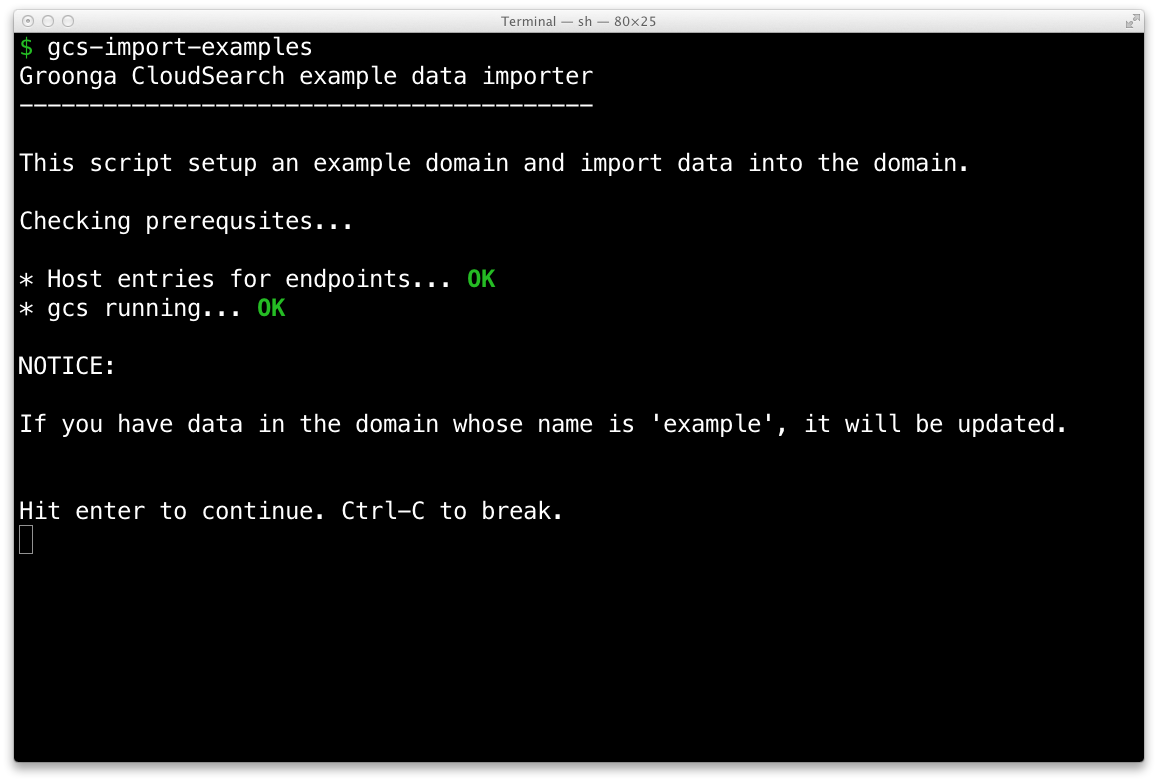
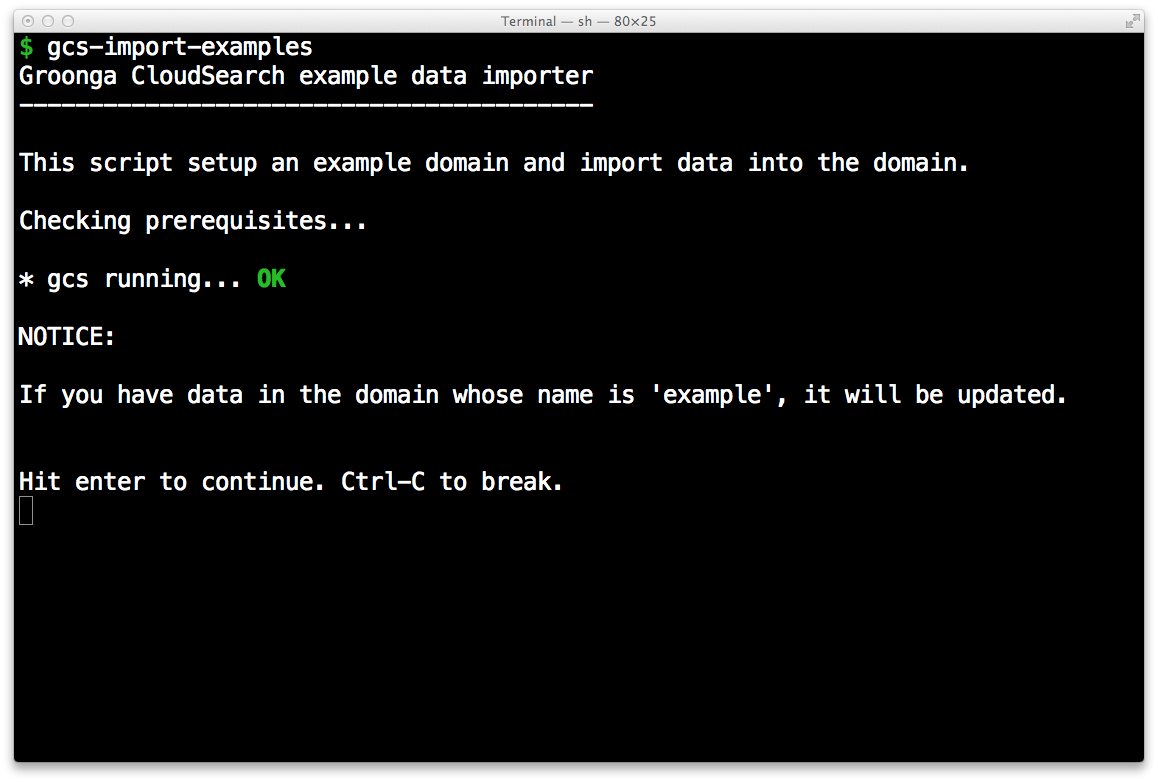
Use xip.io instead of creating /etc/hosts entry. #1

diff --git a/docs/tutorial/index.md b/docs/tutorial/index.md
@@ -18,16 +18,14 @@ page](http://aws.amazon.com/cloudsearch/) about them.
  * [Summary](#summary)
  * [Prepare test environment](#prepare_test_environment)
    * [Install Groonga CloudSearch](#install_groonga_cloudsearch)
-   * [Register example search domain](#register__search_domain)
+   * [About search domain and endpoints](#about_search_domain_and_endpoints)
    * [Start Groonga CloudSearch server](#start_groonga_cloudsearch_server)
    * [Import example documents](#import_example_documents)
  * [How to search documents](#how-to-search-documents)
-   
    * [Restrictions](#restrictions)
  * [How to register documents](#how-to-register-documents)
    * [Configuration API](#configuration_api)
    * [Creating search domain API](#creating_search_domain_api)
-   * [Registering endpoint host names](#registering_endpoint_host_names)
    * [Defining index field API](#defining_index_field_api)
    * [Registering documents API](#registering_documents_api)
  * [Next step](#next_step)
@@ -70,7 +68,7 @@ successfully:
     $ gcs --version
     {{ site.version }}
 
-### Register `example` search domain
+### About search domain and endpoints
 
 Amazon CloudSearch API groups search target documents. Each group is
 searched separately. The group is called as `search domain`. `Search
@@ -95,33 +93,32 @@ CloudSearch](http://docs.amazonwebservices.com/cloudsearch/latest/developerguide
 
 Groonga CloudSearch uses the following endpoint host name formats:
 
- * `search-DOMAIN_NAME-00000000000000000000000000.localhost`
- * `doc-DOMAIN_NAME-00000000000000000000000000.localhost`
+ * `search-DOMAIN_NAME-00000000000000000000000000.BASE_DOMAIN_NAME`
+ * `doc-DOMAIN_NAME-00000000000000000000000000.BASE_DOMAIN_NAME`
 
 `DOMAIN_NAME` is search domain name. Search domain ID is always
 `00000000000000000000000000` for now. It'll be replaced unique ID in
 the future release.
 
-To access local Groonga CloudSearch server by those endpoint host
-names, you need to resolve those endpoint host names as
-`127.0.0.1`. Run the following command to register those endpoint host
-names to your `/etc/hosts`:
+`BASE_DOMAIN_NAME` can be an arbitrary name as long as we can reach the Groonga
+CloudSearch server via the endpoints.
+In this situation, [xip.io][] is useful, which is a magic domain name that
+provides wildcard DNS.
 
-    $ sudo gcs-register-hosts example
+With [xip.io][], the endpoints on `localhost` (`127.0.0.1`) can be represented as
 
-<img src="gcs-register-hosts.png" alt="running gcs-register-hosts command" width="100%" />
+ * `search-DOMAIN_NAME-00000000000000000000000000.127.0.0.1.xip.io`
+ * `doc-DOMAIN_NAME-00000000000000000000000000.127.0.0.1.xip.io`
 
-Type the following command to confirm endpoint host names can be
-resolved:
+Of course, we can use `localhost` as `BASE_DOMAIN_NAME`, for example.
+If you do so, you need to setup these endpoints in /etc/hosts.
+In this tutorial, we just use [xip.io][] for simplicity.
 
-    $ ping -c 1 search-example-00000000000000000000000000.localhost
-    PING search-example-00000000000000000000000000.localhost (127.0.0.1) 56(84) bytes of data.
-    64 bytes from localhost (127.0.0.1): icmp_req=1 ttl=64 time=0.030 ms
-    ...
-    $ ping -c 1 doc-example-00000000000000000000000000.localhost
-    PING doc-example-00000000000000000000000000.localhost (127.0.0.1) 56(84) bytes of data.
-    64 bytes from localhost (127.0.0.1): icmp_req=1 ttl=64 time=0.020 ms
-    ...
+We use the domain whose name is `example` in this tutorial.
+The endpoints for the domain `example` are as follows.
+
+ * `search-example-00000000000000000000000000.127.0.0.1.xip.io`
+ * `doc-example-00000000000000000000000000.127.0.0.1.xip.io`
 
 ### Start Groonga CloudSearch server
 
@@ -240,35 +237,6 @@ See also: [CreateDomain - Amazon
 CloudSearch](http://docs.amazonwebservices.com/cloudsearch/latest/developerguide/API_CreateDomain.html)
 for details.
 
-### Registering endpoint host names
-
-To access the created search domain, you need to endpoint host names
-such as:
-
- * `search-DOMAIN_NAME-00000000000000000000000000.localhost`
- * `doc-DOMAIN_NAME-00000000000000000000000000.localhost`
-
-You can use `gcs-register-hosts` command to register those host names
-to `/etc/hosts` as you saw in [how to search
-documents](#how-to-search-documents) section.
-
-Here is a command to register endpoint host names for `address` search
-domain:
-
-    $ sudo gcs-register-hosts address
-
-Type the following command to confirm endpoint host names can be
-resolved:
-
-    $ ping -c 1 search-address-00000000000000000000000000.localhost
-    PING search-address-00000000000000000000000000.localhost (127.0.0.1) 56(84) bytes of data.
-    64 bytes from localhost (127.0.0.1): icmp_req=1 ttl=64 time=0.030 ms
-    ...
-    $ ping -c 1 doc-address-00000000000000000000000000.localhost
-    PING doc-address-00000000000000000000000000.localhost (127.0.0.1) 56(84) bytes of data.
-    64 bytes from localhost (127.0.0.1): icmp_req=1 ttl=64 time=0.020 ms
-    ...
-
 ### Defining index field API
 
 To define a new index field for the search domain, `DefineIndexField`
@@ -289,10 +257,12 @@ for details.
 
 ### Registering documents API
 
-To register documents, Document Service API is used. Here is endpoint
-host name format of Document Service API on Groonga CloudSearch:
+To register documents, Document Service API is used.
+The endpoint of Document Service API on Groonga CloudSearch
+using [xip.io][] is:
 
- * `doc-DOMAIN_NAME-00000000000000000000000000.localhost`
+
+ * `doc-DOMAIN_NAME-00000000000000000000000000.127.0.0.1.xip.io`
 
 Post documents in SDF JSON representation to the endpoint. SDF is
 acronym of Search Data Format. Here is a sample SDF JSON
@@ -326,7 +296,7 @@ for details of SDF JSON representation.
 Here is an API request to register documents that are stored in
 `addresses.sdf.json` to `address` search domain:
 
-    $ curl -X POST --upload-file addresses.sdf.json --header "Content-Type: application/json" http://doc-address-00000000000000000000000000.localhost:7575/2011-02-01/documents/batch
+    $ curl -X POST --upload-file addresses.sdf.json --header "Content-Type: application/json" http://doc-address-00000000000000000000000000.127.0.0.1.xip.io:7575/2011-02-01/documents/batch
 
 See also: [documents/batch JSON API - Amazon
 CloudSearch](http://docs.amazonwebservices.com/cloudsearch/latest/developerguide/DocumentsBatch.JSON.html#DocumentsBatch.JSON.ResponseProperties)
@@ -340,3 +310,5 @@ Join our [Community](/community/) and share your requests, problems
 and so on!
 
 See also [FAQ](../faq/) to learn more about Groonga CloudSearch.
+
+  [xip.io]:http://xip.io/
